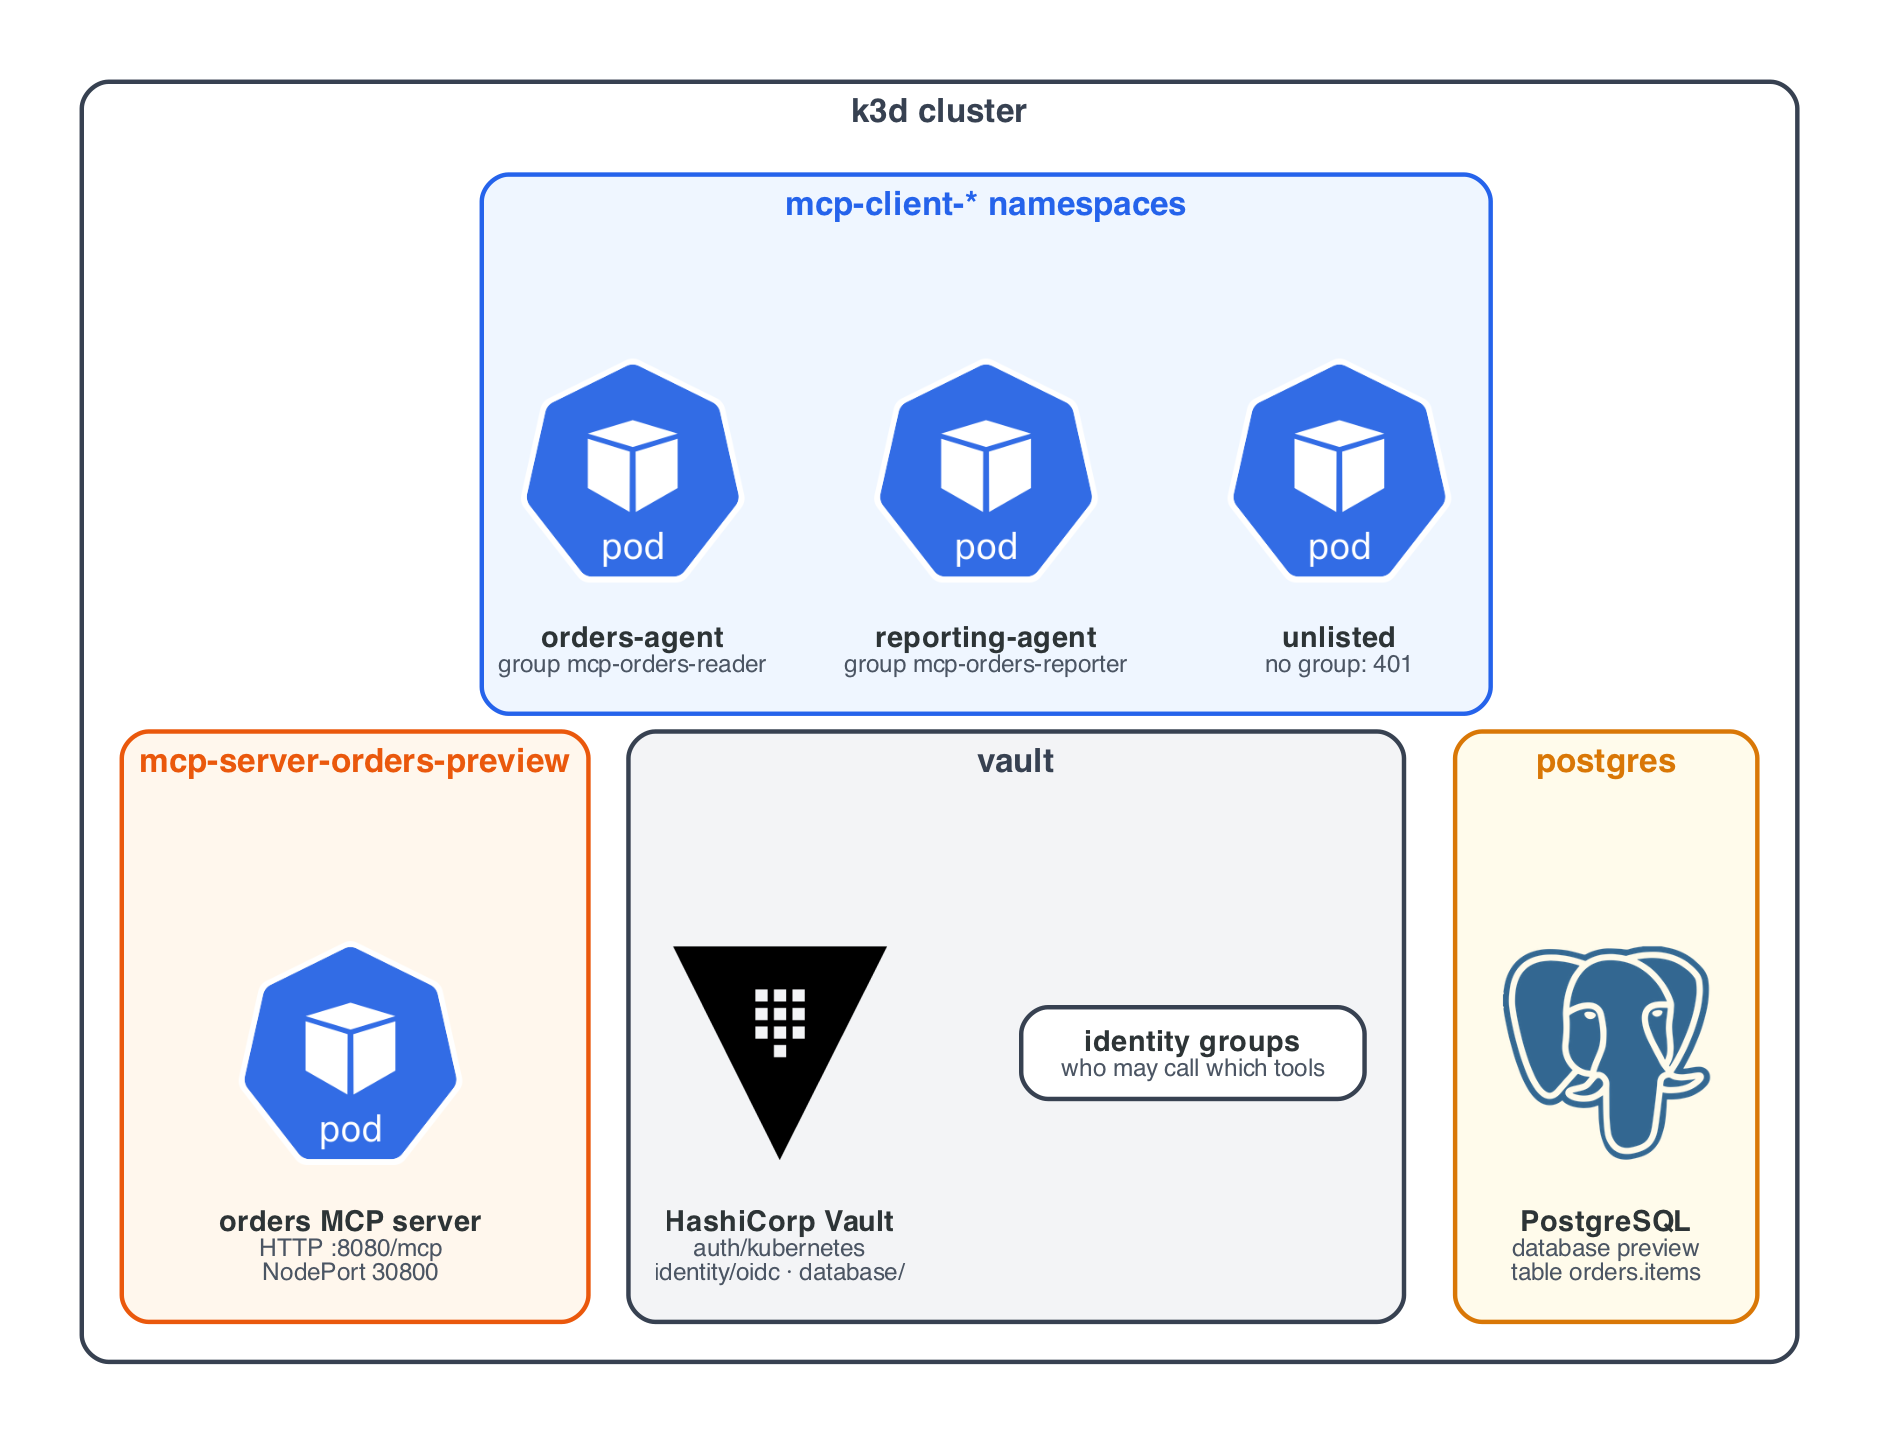
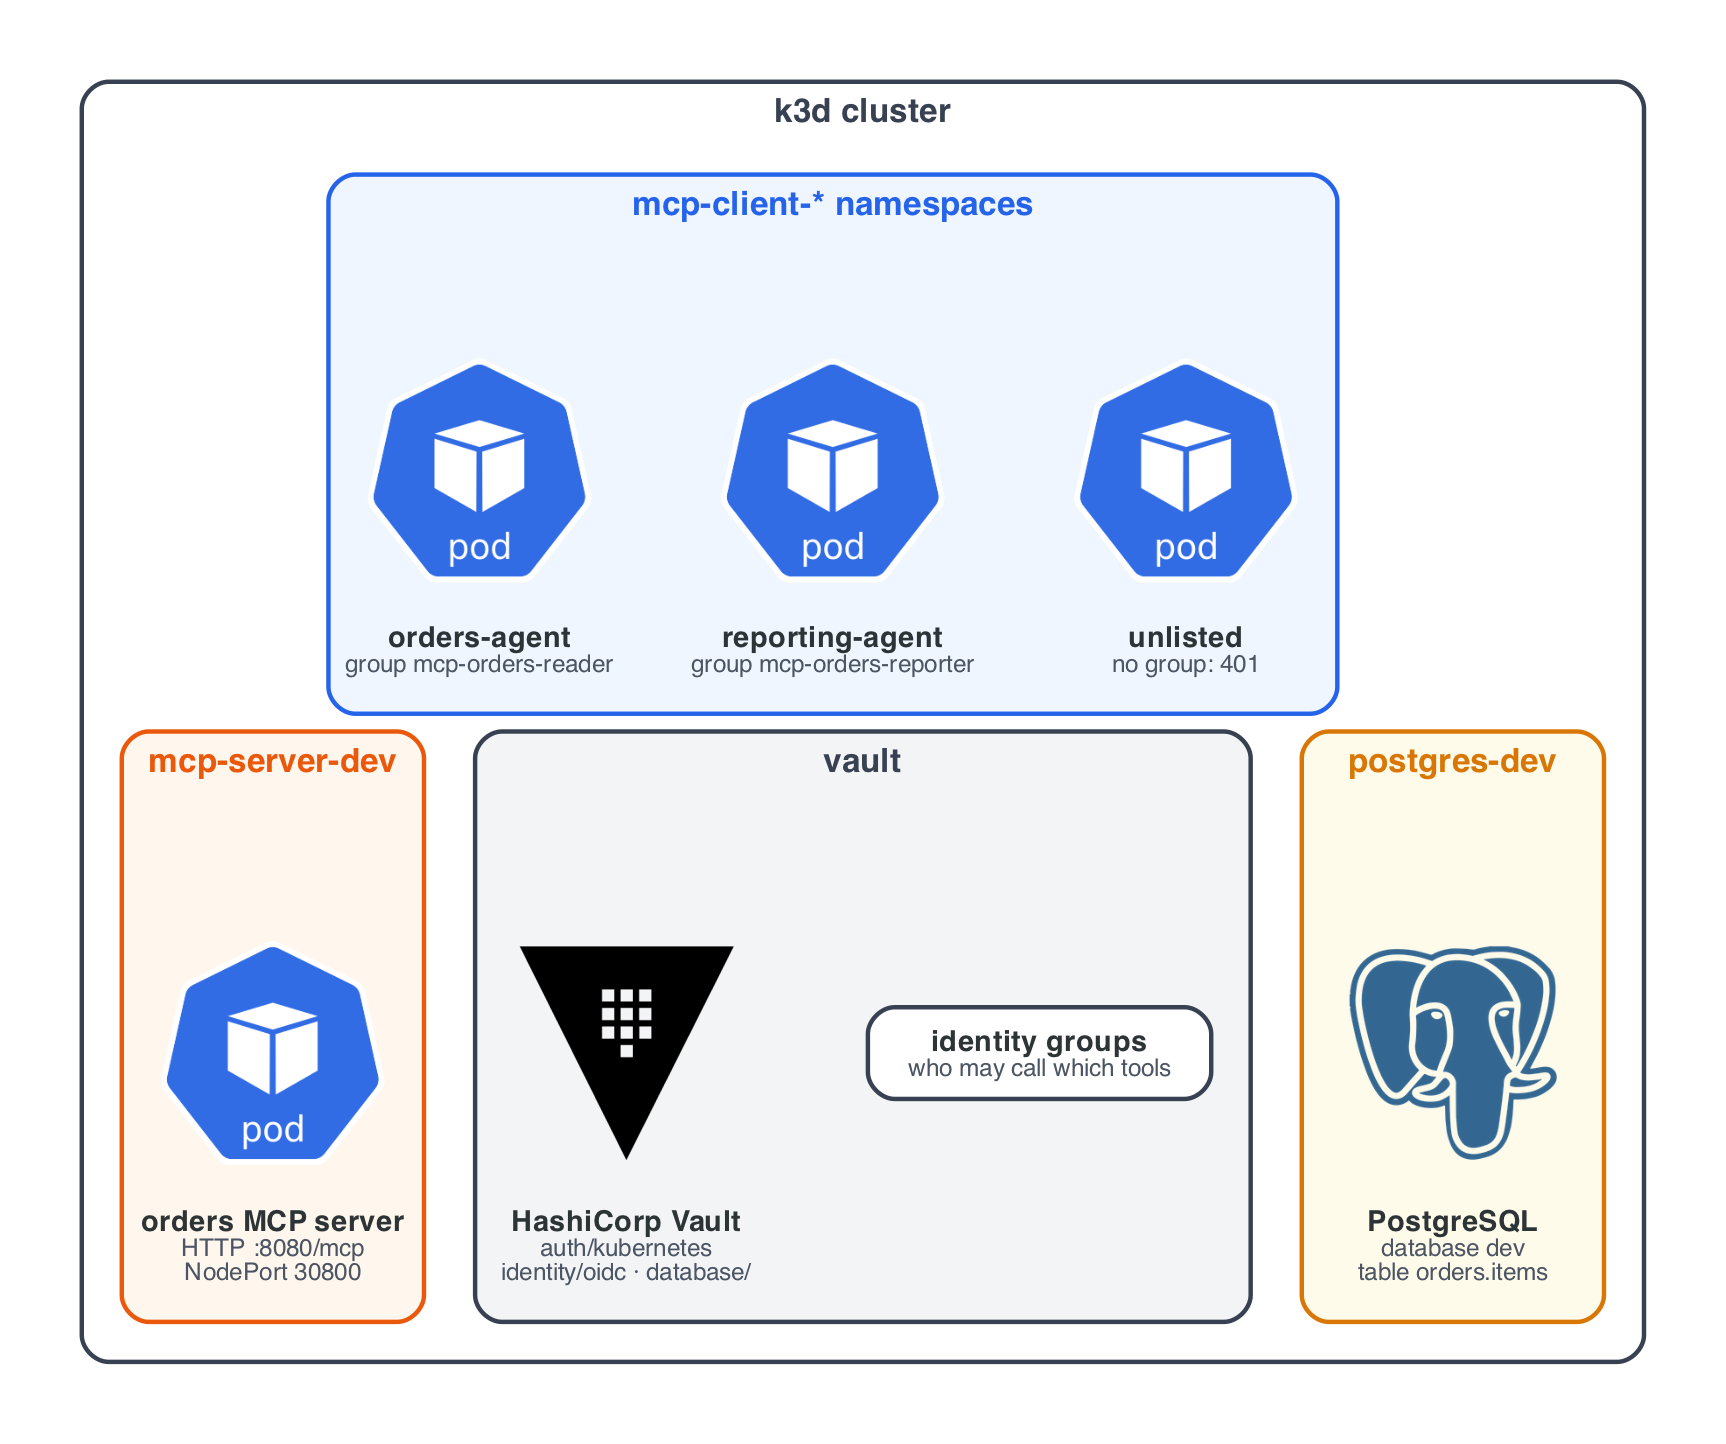
refactor: use per-environment namespaces and rename preview to dev

diff --git a/app/src/mcp_lab/server.py b/app/src/mcp_lab/server.py
@@ -30,7 +30,7 @@ from mcp_lab.vault_client import VaultClient
 
 log = logging.getLogger(__name__)
 
-INSTRUCTIONS = "Read-only access to preview orders. Every call is authorised by the caller's Vault identity group."
+INSTRUCTIONS = "Read-only access to dev orders. Every call is authorised by the caller's Vault identity group."
 
 
 def build_mcp(config: ServerConfig, creds: tools.QueryRunner, verifier: VaultJwtVerifier) -> MCPServer:
@@ -58,20 +58,20 @@ def build_mcp(config: ServerConfig, creds: tools.QueryRunner, verifier: VaultJwt
 
     @tool()
     def list_orders(status: str | None = None, limit: int = 20) -> list[dict[str, Any]]:
-        """List preview orders, optionally filtered by status (pending, shipped, cancelled). At most 50 rows."""
+        """List dev orders, optionally filtered by status (pending, shipped, cancelled). At most 50 rows."""
         require("list_orders")
         return tools.list_orders(creds, status, limit)
 
     @tool()
     def get_order(order_id: int) -> dict[str, Any] | None:
-        """Get one preview order by id."""
+        """Get one dev order by id."""
         require("get_order")
         return tools.get_order(creds, order_id)
 
     # Listed so clients see it is refused; annotated destructive so a model client treats it with care
     @tool(annotations=ToolAnnotations(destructiveHint=True, idempotentHint=True), structured_output=False)
     def delete_order(order_id: int) -> None:
-        """Delete one preview order. Always denied: no Vault group is granted it, and orders are read-only."""
+        """Delete one dev order. Always denied: no Vault group is granted it, and orders are read-only."""
         require("delete_order")  # no group in group_tools.toml grants delete_order, so this raises for every caller
         # Defence in depth if a group is ever granted it: there is no DELETE path, and the DB grant is SELECT only.
         raise ToolError(f"permission denied: delete_order is not supported (order {int(order_id)} untouched; orders are read-only)")

diff --git a/app/tests/test_vault_client.py b/app/tests/test_vault_client.py
@@ -11,13 +11,13 @@ from mcp_lab.vault_client import VaultClient
 
 def test_read_sends_x_vault_request_header_and_no_token(fake_proxy):
     state, vault = fake_proxy
-    state.routes["GET /v1/db/creds/preview-payments"] = (200, {}, {"data": {"x": 1}})
+    state.routes["GET /v1/db/creds/dev-payments"] = (200, {}, {"data": {"x": 1}})
 
-    status, _, body = vault.read("db/creds/preview-payments")
+    status, _, body = vault.read("db/creds/dev-payments")
 
     assert status == 200
     assert body == {"data": {"x": 1}}
-    (req,) = state.calls("GET", "/v1/db/creds/preview-payments")
+    (req,) = state.calls("GET", "/v1/db/creds/dev-payments")
     assert req.headers["X-Vault-Request"] == "true"
     assert "X-Vault-Token" not in req.headers
     assert "Authorization" not in req.headers
@@ -26,12 +26,12 @@ def test_read_sends_x_vault_request_header_and_no_token(fake_proxy):
 def test_cache_clear_request_shape(fake_proxy):
     state, vault = fake_proxy
 
-    assert vault.cache_clear("db/creds/preview-payments") == 200
+    assert vault.cache_clear("db/creds/dev-payments") == 200
 
     (req,) = state.calls("POST", "/proxy/v1/cache-clear")
     assert req.headers["X-Vault-Request"] == "true"
     assert req.headers["Content-Type"] == "application/json"
-    assert req.body == {"type": "request_path", "value": "/v1/db/creds/preview-payments"}
+    assert req.body == {"type": "request_path", "value": "/v1/db/creds/dev-payments"}
 
 
 def test_read_returns_headers(fake_proxy):

diff --git a/docs/diagrams/dynamic_db.py b/docs/diagrams/dynamic_db.py
@@ -19,7 +19,7 @@ from diagrams.onprem.database import PostgreSQL
 from diagrams.onprem.security import Vault
 
 with diagram("dynamic-db", direction="LR"):
-    with server_ns("mcp-server-orders-preview"):
+    with server_ns("mcp-server-dev"):
         sa = box("projected SA token", "aud=vault · Proxy container only")
         proxy = box(
             "vault-proxy sidecar",
@@ -31,12 +31,12 @@ with diagram("dynamic-db", direction="LR"):
             "auth/kubernetes/role/mcp-server",
             "policy: read database/creds/&lt;env&gt;-&lt;app&gt;",
         )
-        creds = box("database/creds/preview-orders", "10m default · 30m max")
+        creds = box("database/creds/dev-orders", "10m default · 30m max")
         vault = icon(Vault, "HashiCorp Vault")
     with data_ns():
         pg = icon(
             PostgreSQL,
-            "PostgreSQL preview",
+            "PostgreSQL dev",
             "orders.items: SELECT\npayments.*: no grant",
         )
 
@@ -56,7 +56,7 @@ with diagram("dynamic-db", direction="LR"):
     )
     (
         creds
-        >> ref("CREATE ROLE v-... IN ROLE preview_orders_ro<br/>VALID UNTIL expiry")
+        >> ref("CREATE ROLE v-... IN ROLE dev_orders_ro<br/>VALID UNTIL expiry")
         >> pg
     )
     app >> deliver(6, "fixed, parameterised SELECTs") >> pg

diff --git a/app/tests/conftest.py b/app/tests/conftest.py
@@ -118,7 +118,7 @@ def fake_proxy(socket_dir: Path) -> Iterator[tuple[FakeProxyState, VaultClient]]
 
 def creds_response(
     username: str,
-    lease_id: str = "db/creds/preview-payments/abc123XYZ789",
+    lease_id: str = "db/creds/dev-payments/abc123XYZ789",
     lease_duration: int = 600,
 ) -> Route:
     return (
@@ -266,7 +266,7 @@ class FakeVault:
             "exp": now + self.ttl,
             "namespace": "root",
             "groups": self.groups,
-            "environment": "preview",
+            "environment": "dev",
             "application_name": "orders-agent",
         }
         kid = overrides.pop("kid", self.active_kid)
@@ -297,7 +297,7 @@ class FakeCreds:
         return fn(_FakeConn(self))
 
     def whoami(self) -> dict[str, Any]:
-        return {"current_user": "v-kubernetes-preview-orders-abc", "creds_path": "database/creds/preview-orders", "lease_id_suffix": "xyz", "lease_seconds_remaining": 540}
+        return {"current_user": "v-kubernetes-dev-orders-abc", "creds_path": "database/creds/dev-orders", "lease_id_suffix": "xyz", "lease_seconds_remaining": 540}
 
     def is_healthy(self) -> bool:
         return True

diff --git a/docs/diagrams/architecture.py b/docs/diagrams/architecture.py
@@ -24,7 +24,7 @@ with diagram("architecture", direction="TB", nodesep="0.8", ranksep="0.9"):
             agent = icon(Pod, "orders-agent", "group mcp-orders-reader")
             reporter = icon(Pod, "reporting-agent", "group mcp-orders-reporter")
             unlisted = icon(Pod, "unlisted", "no group: 401")
-        with server_ns("mcp-server-orders-preview"):
+        with server_ns("mcp-server-dev"):
             server = icon(Pod, "orders MCP server", "HTTP :8080/mcp\nNodePort 30800")
         with vault_ns("vault"):
             vault = icon(
@@ -35,7 +35,7 @@ with diagram("architecture", direction="TB", nodesep="0.8", ranksep="0.9"):
             groups = box("identity groups", "who may call which tools")
         with data_ns():
             # Two detail lines, like its neighbours, so the row's boxes are the same height
-            pg = icon(PostgreSQL, "PostgreSQL", "database preview\ntable orders.items")
+            pg = icon(PostgreSQL, "PostgreSQL", "database dev\ntable orders.items")
 
     same_rank(agent, reporter, unlisted)
     same_rank(server, groups, vault, pg)

diff --git a/app/tests/test_server_inprocess.py b/app/tests/test_server_inprocess.py
@@ -24,7 +24,7 @@ URL = "http://localhost:8000/mcp"
 
 
 def _config() -> ServerConfig:
-    return ServerConfig.from_env({"DB_CREDS_PATH": "database/creds/preview-orders", "DB_HOST": "pg", "DB_NAME": "preview"})
+    return ServerConfig.from_env({"DB_CREDS_PATH": "database/creds/dev-orders", "DB_HOST": "pg", "DB_NAME": "dev"})
 
 
 @contextlib.asynccontextmanager
@@ -147,7 +147,7 @@ def test_whoami_shows_caller_and_db_user_never_password(vault, creds):
 
     _, result = run(go)
     text = result.content[0].text
-    assert "entity-1234" in text and "v-kubernetes-preview-orders-abc" in text
+    assert "entity-1234" in text and "v-kubernetes-dev-orders-abc" in text
     assert "password" not in text
 
 

diff --git a/app/tests/test_config.py b/app/tests/test_config.py
@@ -4,12 +4,12 @@ import pytest
 
 from mcp_lab.config import DEFAULT_AUDIENCE, DEFAULT_ISSUER, ClientConfig, ConfigError, ServerConfig
 
-SERVER_ENV = {"DB_CREDS_PATH": "/database/creds/preview-orders/", "DB_HOST": "pg", "DB_NAME": "preview"}
+SERVER_ENV = {"DB_CREDS_PATH": "/database/creds/dev-orders/", "DB_HOST": "pg", "DB_NAME": "dev"}
 
 
 def test_server_defaults():
     c = ServerConfig.from_env(SERVER_ENV)
-    assert c.db_creds_path == "database/creds/preview-orders"
+    assert c.db_creds_path == "database/creds/dev-orders"
     assert c.issuer == DEFAULT_ISSUER
     assert c.audience == DEFAULT_AUDIENCE
     assert c.allowed_hosts == ("localhost:8000", "127.0.0.1:8000")

diff --git a/app/tests/test_creds.py b/app/tests/test_creds.py
@@ -11,7 +11,7 @@ from conftest import Connector, PoolFactory, creds_response, truncated_response
 from mcp_lab.creds import CredentialManager, RetriesExhausted, ShuttingDown, classify_db_error
 from mcp_lab.vault_client import VaultDenied
 
-PATH = "db/creds/preview-payments"
+PATH = "db/creds/dev-payments"
 ROUTE = f"GET /v1/{PATH}"
 
 
@@ -31,7 +31,7 @@ def make_manager(vault, **kwargs):
         PATH,
         host="db",
         port=5432,
-        dbname="preview",
+        dbname="dev",
         pool_factory=pools,
         connector=connector,
         sleep=sleeps.append,

diff --git a/app/tests/test_auth.py b/app/tests/test_auth.py
@@ -31,7 +31,7 @@ def test_valid_reader_token(vault):
     token = verifier(vault).verify(vault.mint())
     assert token is not None
     assert token.scopes == ["get_order", "list_orders", "whoami"]
-    assert token.client_id == "preview/orders-agent"
+    assert token.client_id == "dev/orders-agent"
     assert token.subject == "entity-1234"
 
 

diff --git a/docs/diagrams/common.py b/docs/diagrams/common.py
@@ -104,7 +104,7 @@ def vault_ns(title: str = "HashiCorp Vault") -> Cluster:
     return group(title, GREY, GREY_FILL)
 
 
-def data_ns(title: str = "postgres") -> Cluster:
+def data_ns(title: str = "postgres-dev") -> Cluster:
     return group(title, YELLOW, YELLOW_FILL)
 
 

diff --git a/docs/solution-design.md b/docs/solution-design.md
@@ -48,12 +48,14 @@ bound to loopback only. Vault uses its default mount paths: `auth/kubernetes`, `
 
 | Identity | Namespace / ServiceAccount | Vault auth role | Vault policy | Vault group |
 | --- | --- | --- | --- | --- |
-| MCP server | `mcp-server-orders-preview` / `…-sa` | `mcp-server` | `mcp-server` (templated) | none |
+| MCP server | `mcp-server-dev` / `…-sa` | `mcp-server` | `mcp-server` (templated) | none |
 | Orders agent | `mcp-client-orders-agent` / `…-sa` | `mcp-client` | `mcp-client` | `mcp-orders-reader` |
 | Reporting agent | `mcp-client-reporting-agent` / `…-sa` | `mcp-client` | `mcp-client` | `mcp-orders-reporter` |
 | Laptop (no pod) | `mcp-client-laptop` / `…-sa` | `mcp-client` | `mcp-client` | `mcp-orders-reader` |
 | Unlisted agent | `mcp-client-unlisted` / `…-sa` | `mcp-client` | `mcp-client` | none (fails closed) |
 
+- **Environments:** each environment is meant to have its own server namespace and PostgreSQL instance. The lab
+  deploys only `dev`: `mcp-server-dev` (named in `vault/servers.json`) and `postgres-dev`.
 - **Role bindings:** each auth role is bound by glob. `mcp-server` accepts only `mcp-server-*-sa` in
   `mcp-server-*` namespaces; `mcp-client` accepts only `mcp-client-*-sa` in `mcp-client-*`. Both require token
   audience `vault`.
@@ -95,7 +97,7 @@ A token looks like this:
 
 ```json
 {"iss": "http://vault.vault.svc.cluster.local:8200/v1/identity/oidc", "aud": "mcp-orders", "sub": "<entity id>",
- "exp": 1794924600, "iat": 1794924300, "groups": ["mcp-orders-reader"], "environment": "preview",
+ "exp": 1794924600, "iat": 1794924300, "groups": ["mcp-orders-reader"], "environment": "dev",
  "application_name": "orders-agent", "team": "ai-platform", "namespace": "root"}
 ```
 
@@ -136,11 +138,11 @@ audited. What a group may call is code, changed by pull request and tested.
 ![Dynamic database credentials](images/dynamic-db.png)
 
 The server keeps the pattern from `learn-vault-proxy`. A Vault Proxy native sidecar runs with `role mcp-server`.
-`CredentialManager` reads `database/creds/preview-orders` over the socket, opens a small connection pool, and
+`CredentialManager` reads `database/creds/dev-orders` over the socket, opens a small connection pool, and
 refreshes at two thirds of the lease (capped at 60 seconds). It swaps the pool when the username changes, recovers
 from revocation with `cache-clear`, and on SIGTERM closes the pool and calls `revoke-self`.
 
-The database user inherits `preview_orders_ro`: `USAGE` on schema `orders` and `SELECT` on `orders.items`. Nothing
+The database user inherits `dev_orders_ro`: `USAGE` on schema `orders` and `SELECT` on `orders.items`. Nothing
 else is granted. Schema `payments` in the same database holds a canary that no MCP identity can read.
 
 ## 7. Laptop access

diff --git a/docs/walkthrough.md b/docs/walkthrough.md
@@ -48,7 +48,7 @@ npx "@modelcontextprotocol/inspector@$V" --cli http://localhost:8000/mcp --trans
 Or with Claude Code. Approve the project server in `.mcp.json` the first time:
 
 ```bash
-claude   # then: "Which preview orders are pending, and which database user did the server use?"
+claude   # then: "Which dev orders are pending, and which database user did the server use?"
 ```
 
 `.mcp.json` runs `scripts/mcp-headers.sh` as a `headersHelper`. Claude Code reuses the token across calls and gets a new
@@ -66,10 +66,10 @@ task logs NS=mcp-client-orders-agent C=vault-proxy
 ## 4. Each side can do exactly one thing in Vault (A3, A4, M3–M5)
 
 ```bash
-kubectl exec -n mcp-server-orders-preview deploy/mcp-orders -c vault-proxy -- \
+kubectl exec -n mcp-server-dev deploy/mcp-orders -c vault-proxy -- \
   vault read -address=unix:///run/vault/proxy.sock identity/oidc/token/mcp-orders     # 403
 kubectl exec -n mcp-client-orders-agent deploy/mcp-client -c vault-proxy -- \
-  vault read -address=unix:///run/vault/proxy.sock database/creds/preview-orders       # 403
+  vault read -address=unix:///run/vault/proxy.sock database/creds/dev-orders           # 403
 ```
 
 ## 5. Forged and expired tokens (A5, A6)
@@ -91,7 +91,7 @@ scripts/vault.sh read identity/group/name/mcp-orders-reader
 ```bash
 task demo:mcp
 task logs C=app | grep -E 'creds_acquired|pool_opened'
-scripts/vault.sh lease revoke -prefix database/creds/preview-orders   # server recovers with a new user (M7)
+scripts/vault.sh lease revoke -prefix database/creds/dev-orders   # server recovers with a new user (M7)
 ```
 
 ## 8. Audit (A11)
@@ -101,7 +101,7 @@ kubectl logs vault-0 -n vault | grep '^{' | jq -c 'select(.type=="response") |
   {path: .request.path, ns: .auth.metadata.service_account_namespace, error}' | sort | uniq -c
 ```
 
-Only `mcp-server-orders-preview` receives `database/creds/preview-orders`. Only `mcp-client-*` identities receive
+Only `mcp-server-dev` receives `database/creds/dev-orders`. Only `mcp-client-*` identities receive
 `identity/oidc/token/mcp-orders`. The denied attempts are logged too.
 
 ## 9. Recreated ServiceAccounts (A12)
